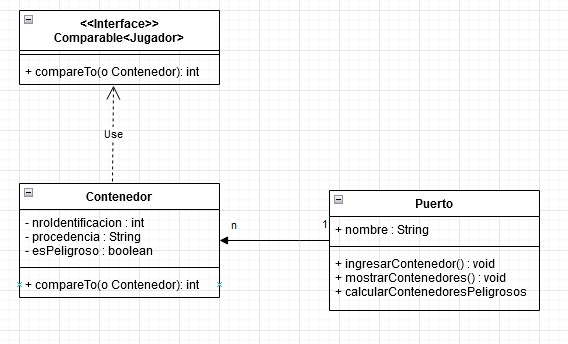
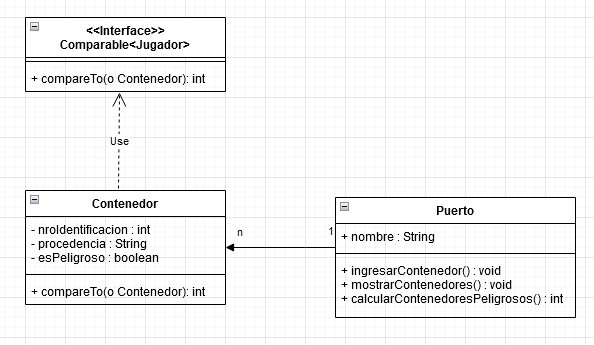
Correccion al UML y agregue la funcion calcularContenedoresPeligrosos en la clase Puerto

Changed region(s): [[0.0299, 0.0291, 0.9877, 0.9302]]

diff --git a/Ejercicio-25/src/PuertoBuenosAires/Main.java b/Ejercicio-25/src/PuertoBuenosAires/Main.java
@@ -1,0 +1,27 @@
+package PuertoBuenosAires;
+
+public class Main {
+    public static void main(String[] args) {
+        Contenedor cont1 = new Contenedor(1,"China",true);
+        Contenedor cont2 = new Contenedor(22,"EEUU",false);
+        Contenedor cont3 = new Contenedor(23,"Desconocida",false);
+        Contenedor cont4 = new Contenedor(1515,"Canada",true);
+        Contenedor cont5 = new Contenedor(2,"Brasil",false);
+        Contenedor cont6 = new Contenedor(150,"Rusia",false);
+
+        Puerto puerto1 = new Puerto("Puerto de Buenos Aires");
+        puerto1.ingresarContenedor(cont1);
+        puerto1.ingresarContenedor(cont2);
+        puerto1.ingresarContenedor(cont3);
+        puerto1.ingresarContenedor(cont4);
+        puerto1.ingresarContenedor(cont5);
+        puerto1.ingresarContenedor(cont6);
+
+        System.out.println("Mostrar Contenedores en orden en base al numero de identificacion.");
+        puerto1.mostrarContenedores();
+        System.out.println("");
+
+        System.out.println();
+
+    }
+}

diff --git a/Ejercicio-25/src/PuertoBuenosAires/Puerto.java b/Ejercicio-25/src/PuertoBuenosAires/Puerto.java
@@ -21,4 +21,14 @@ public class Puerto {
             System.out.println(contenedores.toString());
         }
     }
+
+    public int calcularContenedoresPeligrosos(){
+        int cantidadPeligrosos = 0;
+        for(Contenedor cont:contenedores){
+            if (cont.isEsPeligroso()){
+                cantidadPeligrosos++;
+            }
+        }
+        return cantidadPeligrosos;
+    }
 }

diff --git a/Ejercicio-25/src/PuertoBuenosAires/Contenedor.java b/Ejercicio-25/src/PuertoBuenosAires/Contenedor.java
@@ -38,6 +38,8 @@ public class Contenedor implements Comparable<Contenedor> {
     }
 
 
+
+
     public int getNroIdentificacion() {
         return nroIdentificacion;
     }
